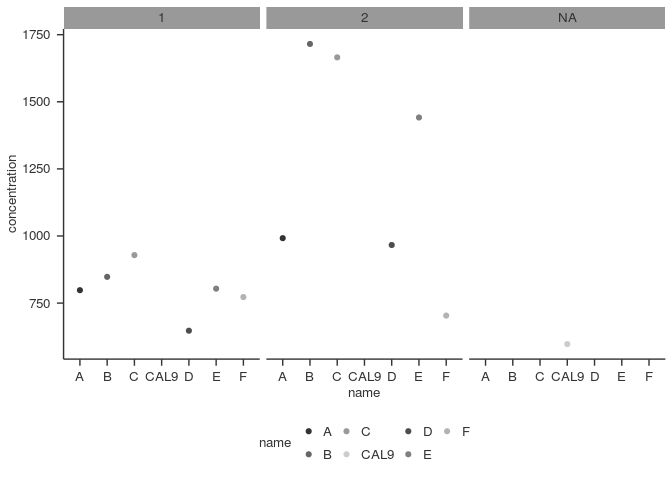
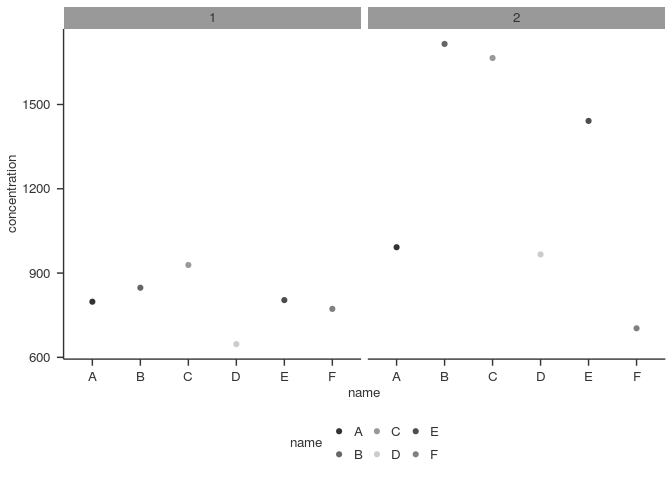
update README

diff --git a/README.md b/README.md
@@ -502,22 +502,21 @@ If there were you could exclude them like:
 my_data <- my_data %>%
   filter(concentration_cv < 0.20)
 my_data
-#> # A tibble: 13 x 12
+#> # A tibble: 12 x 12
 #>    position sample_id  name   day plate     n    raw    raw_sd      raw_cv
 #>       <chr>     <chr> <chr> <chr> <int> <int>  <dbl>     <dbl>       <dbl>
-#>  1       F1     xCAL9  CAL9  <NA>     1     2  461.5 55.861436 0.121043198
-#>  2       A3       A_1     A     1     1     2  618.5 27.577164 0.044587170
-#>  3       B3       B_1     B     1     1     2  657.5 13.435029 0.020433504
-#>  4       C3       C_1     C     1     1     2  721.0 76.367532 0.105918908
-#>  5       D3       D_1     D     1     1     2  500.5 13.435029 0.026843214
-#>  6       E3       E_1     E     1     1     2  623.0  7.071068 0.011350029
-#>  7       F3       F_1     F     1     1     2  598.5 13.435029 0.022447834
-#>  8       A5       A_2     A     2     1     2  770.5 48.790368 0.063322995
-#>  9       B5       B_2     B     2     1     2 1340.0  7.071068 0.005276916
-#> 10       C5       C_2     C     2     1     2 1300.5 34.648232 0.026642239
-#> 11       D5       D_2     D     2     1     2  750.5 34.648232 0.046166865
-#> 12       E5       E_2     E     2     1     2 1124.0 90.509668 0.080524616
-#> 13       F5       F_2     F     2     1     2  544.5 34.648232 0.063633117
+#>  1       A3       A_1     A     1     1     2  618.5 27.577164 0.044587170
+#>  2       B3       B_1     B     1     1     2  657.5 13.435029 0.020433504
+#>  3       C3       C_1     C     1     1     2  721.0 76.367532 0.105918908
+#>  4       D3       D_1     D     1     1     2  500.5 13.435029 0.026843214
+#>  5       E3       E_1     E     1     1     2  623.0  7.071068 0.011350029
+#>  6       F3       F_1     F     1     1     2  598.5 13.435029 0.022447834
+#>  7       A5       A_2     A     2     1     2  770.5 48.790368 0.063322995
+#>  8       B5       B_2     B     2     1     2 1340.0  7.071068 0.005276916
+#>  9       C5       C_2     C     2     1     2 1300.5 34.648232 0.026642239
+#> 10       D5       D_2     D     2     1     2  750.5 34.648232 0.046166865
+#> 11       E5       E_2     E     2     1     2 1124.0 90.509668 0.080524616
+#> 12       F5       F_2     F     2     1     2  544.5 34.648232 0.063633117
 #> # ... with 3 more variables: concentration <dbl>, concentration_sd <dbl>,
 #> #   concentration_cv <dbl>
 ```
